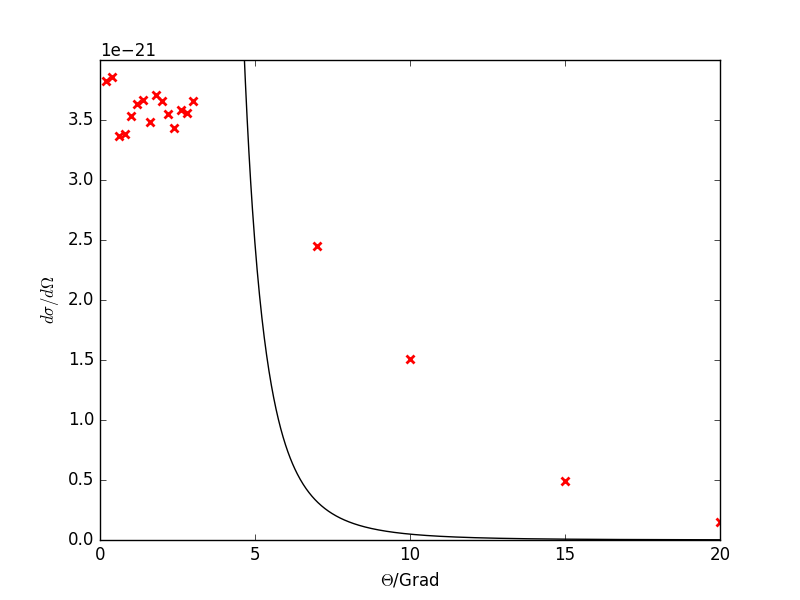
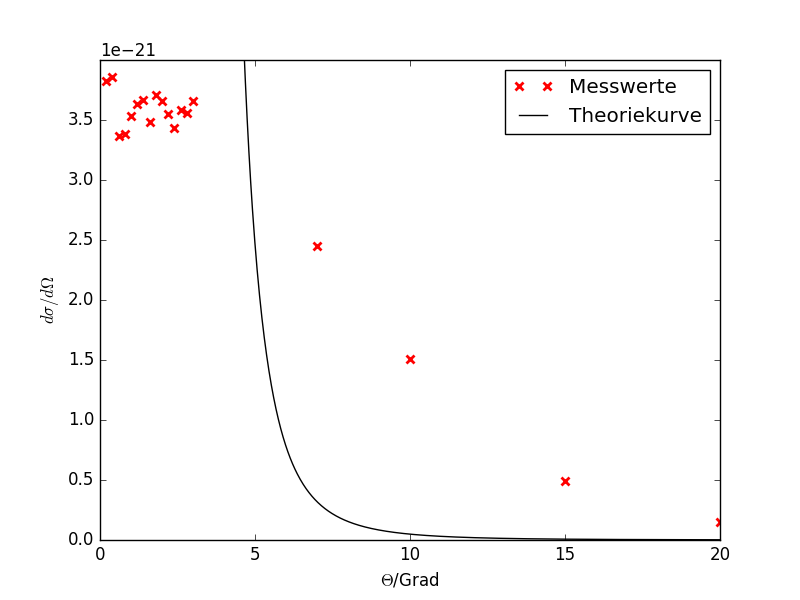
V16 diskussion bisl

Changed region(s): [[0.625, 0.09, 0.9062, 0.24]]

diff --git a/V16-Rutherford-Streuexperiment/content/theorie.tex b/V16-Rutherford-Streuexperiment/content/theorie.tex
@@ -49,7 +49,7 @@
     mit der Teilchenvolumendichte $N$ und der Dicke $d$ der Folie.
     $Z_{Folie}$ ist die Z"ahlrate der $\alpha$-Teilchen auf der Folie, welche sich aus der Versuchsgeometrie nach Abb. (\ref{aufbau}) berechnet zu
     \begin{equation}
-      Z_{Folie}=Z_{Quelle}\frac{F}{4\pi(\SI{0.039}{\meter}+\SI{0,017}{\meter})^2}
+      Z_{Folie}=Z_{Quelle}\frac{F}{4\pi(\SI{0.0039}{\meter}+\SI{0,0017}{\meter})^2}
     \end{equation}
     mit der Blendenfl"ache $F=\SI{20e-6}{\meter}$ \cite{Anleitung}.
     %und der Folienfl"ache $A_{Folie}=\textbf{????????}$.
@@ -57,7 +57,7 @@
     %Es wird davon ausgegangen, dass die erste Blende direkt an der Quelle liegt und irrelevant ist.
     $\Delta \Omega$ ist der Raumwinkel der SB-Detektorfl"ache, welcher sich ebenfalls aus den Versuchsabst"anden berechnen l"asst. Da knapp vor dem Detektor wieder eine enge Blende ist, werden alle Teilchen die durch die Blende gelangen auch auf die Detektorfl"ache einfallen. Damit folgt:
     \begin{equation}
-      \Delta \Omega = \frac{F}{4\pi(\SI{0.039}{\meter}+\SI{0.017}{\meter}+\SI{0.041}{\meter})^2} \: .
+      \Delta \Omega = \frac{F}{4\pi(\SI{0.0039}{\meter}+\SI{0.0017}{\meter}+\SI{0.0041}{\meter})^2} \: .
     \end{equation}
 
     Da im Versuch der Streuwinkel $\theta$ nicht durch Ver"andern der Detektorpostion eingestellt wird, sondern durch Drehen der Folie im Strahl, ver"andert sich mit $\theta$ auch die effektive Folienfl"ache senkrecht zur Strahlrichtung, damit ist $A_{Folie}(\theta)$ abh"angig vom Streuwinkel:
@@ -67,8 +67,8 @@
 
     Insgesamt ist der differentielle Wirkungsquerschnitt $\text{d}\sigma/\text{d}\Omega(\theta)$ damit:
     \begin{equation}
-      \frac{\text{d}\sigma}{\text{d}\Omega}(\theta) =  \frac{Z_{out}(\theta)4\pi^2(\SI{0,039}{\meter}+\SI{0,017}{\meter})^2}{Z_{Quelle}F\cos(\theta/2)}
-      \frac{4\pi^2 (\SI{0,041}{\meter}+\SI{0,039}{\meter}+\SI{0.017}{\meter})^2}{F}\frac{1}{N_{A,Folie}}
+      \frac{\text{d}\sigma}{\text{d}\Omega}(\theta) =  \frac{Z_{out}(\theta)4\pi^2(\SI{0,0039}{\meter}+\SI{0,0017}{\meter})^2}{Z_{Quelle}F\cos(\theta/2)}
+      \frac{4\pi^2 (\SI{0,0041}{\meter}+\SI{0,0039}{\meter}+\SI{0.0017}{\meter})^2}{F}\frac{1}{N_{A,Folie}}
       \label{querschnitt}
     \end{equation}
 

diff --git a/V16-Rutherford-Streuexperiment/content/auswertung.tex b/V16-Rutherford-Streuexperiment/content/auswertung.tex
@@ -1,6 +1,15 @@
 \section{Auswertung}
 \label{sec:Auswertung}
 
+\subsection{Die Aktivit"at der Americum-Quelle}
+
+
+\subsection{\texorpdfstring{Bestimmung der Foliendicke einer Goldfolie durch Energieverlustmessung der $\alpha$-Teilchen}{Bestimmung der Foliendicke einer Goldfolie durch Energieverlustmessung der alpha-Teilchen}}
+
+
+
+
+
 \subsection{Vermessung des Rutherford-Streugesetzes}
   Die gemessenen Z"ahlraten $Z(\theta)$ und zugeh"origen Streuwinkel $\theta$ so wie der jeweils nach Formel (\ref{querschnitt}) berechnete differentielle Wirkungsquerschnitt $\text{d}\sigma/\text{d}\Omega(\theta)$ sind in Tabelle (\ref{tab:ruther}) dargestellt.
   Dabei sind
@@ -54,3 +63,11 @@
     \caption{Messwerte und Theoriekurve f"ur das Rutherford-Streugesetz bei der $\SI{2}{\micro \meter}$-Goldfolie.}
     \label{plot:ruther}
   \end{figure}
+
+  Wie zu erkennen ist, zeigen die Messwerte neben dem insgesamt abfallendem Trend keine gute "Ubereinstimmung mit der Theoriekurve.
+
+
+
+
+
+  \subsection{Nachweis von Mehrfachstreuungen und und $Z$-Abh"angigkeit der Rutherford-Streuformel}

diff --git a/V16-Rutherford-Streuexperiment/content/diskussion.tex b/V16-Rutherford-Streuexperiment/content/diskussion.tex
@@ -1,2 +1,8 @@
 \section{Diskussion}
 \label{sec:Diskussion}
+  Bei der Vermessung des Rutherford-Streugesetzes, zeigen die erhaltenen ($\theta,\frac{\text{d}\sigma}{\text{d}\Omega}(\theta)$)-Wertepaare, f"ur die Streuwinkelabh"angigkeit des differentiellen Wirkungsquerschnittes keine gute "Ubereinstimmung mit der Theoriekurve, wie sie durch das Rutherford-Streugesetz gegeben ist.
+  Es ist lediglich zu erkennen, das die letzten 4 Messwerte ($\SI{7}{\degree}$ bis $\SI{20}{\degree}$ einer nicht-linearen abfallenden Funktion folgen, diese Messwerte liegen dabei aber weit oberhalb des Theoriegraphen.
+
+  Die ersten Messerte von $\SI{0}{\degree}$ bis $\SI{3}{\degree}$ liegen allerdings unterhalb des Graphen, und scheinen kaum einer Verteilung zu folgen.
+
+  Insgesamt beschreiben die Messwerte eine stark entlang y gestauchte Theoriekurve.

diff --git a/V16-Rutherford-Streuexperiment/skripte/plot2.py b/V16-Rutherford-Streuexperiment/skripte/plot2.py
@@ -43,5 +43,6 @@ plt.plot(x,y_2, "black", label="Theoriekurve")
 plt.xlabel("$\Theta$/Grad")
 plt.ylabel("$d\sigma / d\Omega$")
 plt.ylim(0, 4*10**(-21))
+plt.legend()
 #plt.show()
 plt.savefig("ruther.png")
